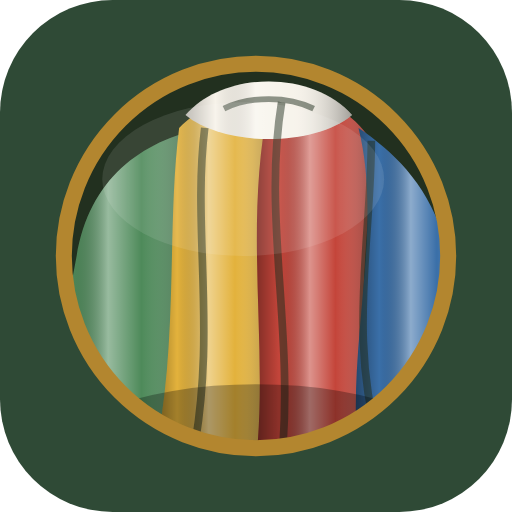
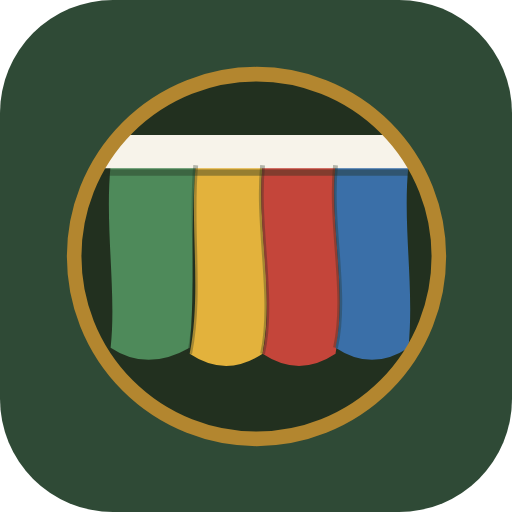
Classic wordmark: EB Garamond in title case, bookplate rule, inlined subset font
- Playfair Display (a Didone) out; EB Garamond (old-style) in, throughout
- Wordmark is title case, not caps: caps read as initials and TOGA is an anagram of GOAT
- Double gold hairline above the name, measuring the name rather than the type block
- The wordmark font is subset to its four glyphs and inlined (1.7KB) so the brand never
  depends on a CDN; rest of the page still loads EB Garamond normally
- Mark redrawn: cloth hanging from a rail instead of four equal wedges filling a circle,
  which read as a beach ball (the old knot read as its valve). Flat, no gradients, one ring
- Icons rasterised from the mark so they cannot drift from it
- Suite 42 -> 48: brand group guarding the case, the inlined font, the rule width and the
  flat, rail-led mark

diff --git a/index.html b/index.html
@@ -17,8 +17,17 @@
 <link rel="icon" type="image/png" sizes="192x192" href="icon-192.png">
 <link rel="preconnect" href="https://fonts.googleapis.com">
 <link rel="preconnect" href="https://fonts.gstatic.com" crossorigin>
-<link href="https://fonts.googleapis.com/css2?family=Playfair+Display:ital,wght@0,500;0,600;0,700;0,800;1,500;1,600&family=Inter:wght@400;500;600;700&display=swap" rel="stylesheet">
+<link href="https://fonts.googleapis.com/css2?family=EB+Garamond:ital,wght@0,400;0,500;0,600;0,700;1,400;1,500&family=Inter:wght@400;500;600;700&display=swap" rel="stylesheet">
 <style>
+  /* The wordmark's own font: EB Garamond 600, subset to the four glyphs the name needs
+     and inlined (~1.7KB base64). The brand must not depend on a CDN — blocked, offline or
+     slow, "Toga" would otherwise fall back to Georgia. Four glyphs, because the name is
+     four letters. The rest of the page still loads EB Garamond normally. */
+  @font-face {
+    font-family: "Toga Mark";
+    font-style: normal; font-weight: 600; font-display: swap;
[1 lines of base64/hex data omitted]
+  }
   :root {
     --paper: #f7f3ea;
     --ink: #22301f;
@@ -68,23 +77,33 @@
     padding: 16px 20px 12px;
     display: flex; align-items: center; justify-content: space-between; gap: 14px;
   }
-  /* Logo: roundel + wordmark. The wordmark is the biggest type on the page after the hero. */
-  .logo { display: flex; align-items: center; gap: 14px; min-width: 0; }
-  .logo .mark { width: 52px; height: 52px; flex-shrink: 0; filter: drop-shadow(0 3px 8px rgba(34,48,31,0.22)); }
+  /* Logo: roundel + wordmark, set in EB Garamond — an old-style face where the strokes feel
+     cut rather than drawn, unlike the Didone we had. Title case, not small caps: caps of any
+     kind read as initials, and TOGA is an anagram of GOAT, so it looks like a puzzle. A
+     capital T and a lowercase rest reads unmistakably as the word. The double hairline above
+     is the bookplate device. */
+  .logo { display: flex; align-items: center; gap: 15px; min-width: 0; }
+  .logo .mark { width: 50px; height: 50px; flex-shrink: 0; }
   .wordmark {
-    font-family: "Playfair Display", Georgia, serif;
-    font-size: 40px; font-weight: 800; letter-spacing: 1.5px; line-height: 1;
-    color: var(--green); text-transform: uppercase;
-    /* gold hairline under the name — the "ornament" made structural */
-    background: linear-gradient(var(--gold), var(--gold)) no-repeat 0 100% / 100% 2px;
-    padding-bottom: 3px; display: inline-block;
+    font-family: "Toga Mark", "EB Garamond", Georgia, serif;
+    font-size: 41px; font-weight: 600; letter-spacing: 0.2px; line-height: 1;
+    color: var(--green); display: inline-block; margin: 0;
   }
+  /* inline-block so the rule measures the NAME, not the type block — otherwise it stretches
+     to the tagline's width and reads as a header divider instead of a caption. */
+  .wordmark::before {
+    content: ""; display: block; height: 4px; margin-bottom: 6px;
+    border-top: 2px solid var(--gold); border-bottom: 1px solid var(--gold);
+  }
+  .brand-region:empty { display: none; }
   .brand-region { font-family: "Inter", sans-serif; font-size: 11px; font-weight: 600; letter-spacing: 0.6px; text-transform: none; color: var(--muted); vertical-align: 6px; margin-left: 6px; }
   .tagline-hdr { font-size: 11.5px; color: var(--muted); margin-top: 6px; letter-spacing: 0.2px; }
   .tagline-hdr .sep { color: var(--gold); margin: 0 4px; }
   @media (max-width: 520px) {
-    .wordmark { font-size: 32px; }
-    .logo .mark { width: 44px; height: 44px; }
+    .wordmark { font-size: 34px; letter-spacing: 0.2px; }
+    .logo .mark { width: 42px; height: 42px; }
+    .logo { gap: 12px; }
+    .wordmark::before { height: 3px; margin-bottom: 6px; border-top-width: 1.5px; }
     .tagline-hdr .more { display: none; } /* drop the long half on narrow screens */
     .tagline-hdr { font-size: 11px; }
   }
@@ -111,7 +130,7 @@
     box-shadow: var(--shadow); padding: 18px 20px 16px; width: 100%; max-width: 440px;
   }
   .sheet-head { display: flex; align-items: center; justify-content: space-between; margin-bottom: 8px; }
-  .sheet-head h3 { font-family: "Playfair Display", Georgia, serif; font-size: 20px; color: var(--green); }
+  .sheet-head h3 { font-family: "EB Garamond", Georgia, serif; font-size: 20px; color: var(--green); }
   .sheet-p { font-size: 13px; color: var(--ink); line-height: 1.5; margin-bottom: 12px; }
   .sheet-fine { font-size: 10.5px; color: var(--muted); margin-top: 12px; }
   .loc-current { font-size: 12.5px; color: var(--muted); font-style: italic; margin-bottom: 10px; }
@@ -128,8 +147,8 @@
   .loc-current .muted { color: var(--muted); font-weight: 400; }
   .welcome-card { text-align: center; padding-top: 22px; }
   .welcome-card .mark-lg { width: 72px; height: 72px; margin-bottom: 10px; filter: drop-shadow(0 4px 12px rgba(34,48,31,0.25)); }
-  .welcome-card .wordmark { font-size: 34px; margin: 0 auto; }
-  .welcome-lead { font-family: "Playfair Display", Georgia, serif; font-style: italic; font-size: 15px; color: var(--ink); margin: 6px 0 12px; }
+  .welcome-card .wordmark { font-size: 34px; display: inline-block; margin: 0; }
+  .welcome-lead { font-family: "EB Garamond", Georgia, serif; font-style: italic; font-size: 15px; color: var(--ink); margin: 6px 0 12px; }
   .welcome-joined:empty { display: none; }
   .welcome-joined { color: var(--green); font-weight: 600; }
   .welcome-ok { margin-top: 6px; background: var(--green); color: var(--card); border-color: var(--green); padding: 10px 22px; }
@@ -192,7 +211,7 @@
   }
   .swatch > *:not(.glass) { position: relative; z-index: 1; }
   .swatch .team {
-    font-family: "Playfair Display", Georgia, serif; font-style: italic;
+    font-family: "EB Garamond", Georgia, serif; font-style: italic;
     font-size: 15px; font-weight: 500; opacity: 0.86; margin: -2px 0 6px; letter-spacing: 0.2px;
   }
   .swatch .team:empty { display: none; }
@@ -210,10 +229,10 @@
   }
   .theme-banner.soon { opacity: 0.85; font-size: 12px; }
   .theme-banner .t-emoji { font-size: 16px; }
-  .theme-banner b { font-family: "Playfair Display", Georgia, serif; font-weight: 600; color: var(--day-ink); }
+  .theme-banner b { font-family: "EB Garamond", Georgia, serif; font-weight: 600; color: var(--day-ink); }
   .theme-banner .t-note { color: var(--muted); font-style: italic; }
   .swatch .eyebrow { font-size: 10px; font-weight: 700; letter-spacing: 2px; text-transform: uppercase; opacity: 0.7; }
-  .swatch .name { font-family: "Playfair Display", Georgia, serif; font-size: 44px; font-weight: 700; letter-spacing: -0.5px; line-height: 1; margin: 7px 0 4px; }
+  .swatch .name { font-family: "EB Garamond", Georgia, serif; font-size: 47px; font-weight: 600; letter-spacing: 0; line-height: 1; margin: 7px 0 4px; }
   .swatch .hex { font-size: 12px; font-weight: 600; opacity: 0.75; font-variant-numeric: tabular-nums; letter-spacing: 1px; }
   .swatch .tagline { font-size: 12px; margin-top: 9px; opacity: 0.82; font-weight: 500; }
   /* Flannel note: a small pill inside the hero, in the hero's own text color */
@@ -256,7 +275,7 @@
   .fit-piece.hero-piece { border-right: 1px solid rgba(var(--day-rgb), 0.20); padding-right: 8px; }
   .fit-piece.hero-piece .garment { width: 52px; height: 52px; }
   .fit-label { font-size: 9px; font-weight: 700; letter-spacing: 1.2px; text-transform: uppercase; color: var(--day-ink); opacity: 0.8; }
-  .fit-name { font-family: "Playfair Display", Georgia, serif; font-size: 15px; font-weight: 600; line-height: 1.1; margin-top: 2px; }
+  .fit-name { font-family: "EB Garamond", Georgia, serif; font-size: 15px; font-weight: 600; line-height: 1.1; margin-top: 2px; }
   .fit-piece.hero-piece .fit-name { font-size: 20px; }
   .fit-alias {
     font-size: 10px; color: var(--muted); line-height: 1.25; margin-top: 3px; font-style: italic;
@@ -292,13 +311,13 @@
 
   /* ------------------------------------------------ Verse */
   .verse {
-    font-family: "Playfair Display", Georgia, serif; font-style: italic;
+    font-family: "EB Garamond", Georgia, serif; font-style: italic;
     font-size: 19px; line-height: 1.45; color: var(--ink);
     white-space: pre-line; text-align: center; padding: 14px 10px 6px;
     text-wrap: balance;
   }
   .verse-tail {
-    font-family: "Playfair Display", Georgia, serif; font-style: italic;
+    font-family: "EB Garamond", Georgia, serif; font-style: italic;
     font-size: 13.5px; color: var(--day-ink); text-align: center; opacity: 0.9;
   }
   .verse-tail:empty { display: none; }
@@ -346,7 +365,7 @@
   .mcell.themed { border-style: double; border-width: 3px; padding: 1px; }
 
   footer { text-align: center; color: var(--muted); font-size: 11px; margin-top: 18px; padding: 0 20px; }
-  footer .brand { font-family: "Playfair Display", Georgia, serif; font-size: 15px; font-weight: 800; letter-spacing: 2px; text-transform: uppercase; color: var(--green); margin: 6px 0 2px; }
+  footer .brand { font-family: "Toga Mark", "EB Garamond", Georgia, serif; font-size: 19px; font-weight: 600; letter-spacing: 0.3px; color: var(--green); margin: 6px 0 2px; }
   footer .fine { font-size: 10.5px; letter-spacing: 1px; }
   footer .mark-sm { width: 30px; height: 30px; opacity: 0.9; }
 </style>
@@ -358,38 +377,26 @@
      and rasterized for the app icon. -->
 <svg width="0" height="0" style="position:absolute" aria-hidden="true">
   <defs>
-    <!-- fold shading: a rounded cylinder — dark edge, bright ridge, deep crease -->
-    <linearGradient id="fold" x1="0" y1="0" x2="1" y2="0">
-      <stop offset="0"    stop-color="#000" stop-opacity="0.35"/>
-      <stop offset="0.18" stop-color="#000" stop-opacity="0.00"/>
-      <stop offset="0.42" stop-color="#fff" stop-opacity="0.42"/>
-      <stop offset="0.62" stop-color="#fff" stop-opacity="0.00"/>
-      <stop offset="1"    stop-color="#000" stop-opacity="0.50"/>
-    </linearGradient>
     <clipPath id="roundel"><circle cx="32" cy="32" r="29"/></clipPath>
     <symbol id="toga-mark" viewBox="0 0 64 64">
       <circle cx="32" cy="32" r="30" fill="#22301f"/>
       <g clip-path="url(#roundel)">
-        <!-- four hanging folds: gathered at the shoulder, each swaying softly as it falls -->
-        <path d="M4 32 C6 20 14 14 24 12 C22 28 26 44 22 64 L-2 64 Z" fill="#4E8A5A"/>
-        <path d="M4 32 C6 20 14 14 24 12 C22 28 26 44 22 64 L-2 64 Z" fill="url(#fold)"/>
-        <path d="M20 12 C24 8 30 6 36 8 C33 26 38 44 36 64 L16 64 C20 46 18 28 20 12 Z" fill="#E3B23C"/>
-        <path d="M20 12 C24 8 30 6 36 8 C33 26 38 44 36 64 L16 64 C20 46 18 28 20 12 Z" fill="url(#fold)"/>
-        <path d="M34 8 C40 6 46 8 50 14 C50 30 46 46 52 64 L32 64 C34 46 30 28 34 8 Z" fill="#C4453A"/>
-        <path d="M34 8 C40 6 46 8 50 14 C50 30 46 46 52 64 L32 64 C34 46 30 28 34 8 Z" fill="url(#fold)"/>
-        <path d="M48 12 C54 16 60 22 62 32 L68 64 L48 64 C46 46 52 28 48 12 Z" fill="#3A6FA8"/>
-        <path d="M48 12 C54 16 60 22 62 32 L68 64 L48 64 C46 46 52 28 48 12 Z" fill="url(#fold)"/>
-        <!-- the gather: a knot of cloth at the shoulder where the folds meet -->
-        <path d="M21 10 C27 3 41 3 47 10 C41 15 27 15 21 10 Z" fill="#f7f3ea"/>
-        <path d="M21 10 C27 3 41 3 47 10 C41 15 27 15 21 10 Z" fill="url(#fold)" opacity="0.7"/>
-        <path d="M27 9 C31 7 37 7 41 9" stroke="#22301f" stroke-width="0.9" opacity="0.5" fill="none"/>
-        <!-- crease lines between folds, following the sway -->
-        <path d="M24 12 C22 28 26 44 22 64 M36 8 C33 26 38 44 36 64 M50 14 C50 30 46 46 52 64" stroke="#22301f" stroke-width="1.2" opacity="0.55" fill="none"/>
-        <!-- soft top light, and the cloth's own shadow pooling at the bottom -->
-        <ellipse cx="30" cy="20" rx="22" ry="12" fill="#fff" opacity="0.10"/>
-        <ellipse cx="32" cy="66" rx="34" ry="14" fill="#000" opacity="0.28"/>
+        <!-- Cloth hanging from a gathered rail: uneven fold widths, a wave-cut hem. Equal
+             saturated wedges filling a circle read as a beach ball, and the knot at the top
+             read as its valve — the rail is what fixes that. -->
+        <path d="M8 17 C7 27 9 38 8 47 Q14 51 21 47 C22 37 21 27 22 17 Z" fill="#4E8A5A"/>
+        <path d="M22 17 C21 27 23 38 21 48 Q27 52 33 48 C35 37 32 27 33 17 Z" fill="#E3B23C"/>
+        <path d="M33 17 C32 27 35 39 33 48 Q39 52 45 48 C47 37 44 27 45 17 Z" fill="#C4453A"/>
+        <path d="M45 17 C44 27 47 38 45 47 Q51 51 57 47 C58 37 56 27 57 17 Z" fill="#3A6FA8"/>
+        <!-- the rail the cloth is folded over -->
+        <path d="M4 12 L60 12 L60 17.5 L4 17.5 Z" fill="#f7f3ea"/>
+        <path d="M4 18.2 L60 18.2" stroke="#22301f" stroke-width="1" opacity="0.4" fill="none"/>
+        <!-- creases between folds — flat and woodcut-like, no spherical shading -->
+        <path d="M22 17 C21 27 23 38 21 48 M33 17 C32 27 35 39 33 48 M45 17 C44 27 47 38 45 47" stroke="#22301f" stroke-width="0.8" opacity="0.32" fill="none"/>
       </g>
-      <circle cx="32" cy="32" r="30" fill="none" stroke="#b3862f" stroke-width="2.5"/>
+      <!-- one gold ring. A finer second ring inside looked like a stray reflection: cream read
+           over the dark disc but vanished over the cloth, so only arcs showed. -->
+      <circle cx="32" cy="32" r="30" fill="none" stroke="#b3862f" stroke-width="2.4"/>
     </symbol>
   </defs>
 </svg>

diff --git a/test.html b/test.html
@@ -225,6 +225,46 @@ function run() {
     for (const w of ["Cedars", "Lakeside", "Jasmin", "Julian", "Bigos"]) ok(!html.includes(w), "found \"" + w + "\" in the page");
   });
 
+  // ---------------------------------------------------------------- brand
+  group("brand · classic wordmark, independent of any CDN");
+  test("the wordmark is set in the inlined face, and it loaded", () => {
+    const wm = doc.querySelector(".wordmark");
+    ok(wm, "no wordmark in the page");
+    const fam = app.getComputedStyle(wm).fontFamily;
+    ok(/Toga Mark/.test(fam), "wordmark is not using the inlined face: " + fam);
+    ok(app.document.fonts.check('600 41px "Toga Mark"'), "the inlined face did not load");
+  });
+  test("the wordmark is title case — not caps, not small caps", () => {
+    // caps of any kind read as initials, and TOGA is an anagram of GOAT
+    const cs = app.getComputedStyle(doc.querySelector(".wordmark"));
+    eq(cs.textTransform, "none", "a text-transform is making the name read as initials");
+    eq(cs.fontVariantCaps, "normal", "small caps still reads as initials");
+    eq(doc.querySelector(".wordmark").textContent.trim(), "Toga", 'the name should be exactly "Toga"');
+  });
+  test("the wordmark font is embedded, not fetched", () => {
+    const css = [...doc.querySelectorAll("style")].map(s => s.textContent).join("");
+    ok(/@font-face[^}]*Toga Mark/.test(css), "no @font-face declared for the wordmark");
+    ok(/url\(data:font\/woff2;base64,/.test(css), "the wordmark font is not inlined as base64");
+  });
+  test("the bookplate rule measures the name, not the whole type block", () => {
+    const wm = doc.querySelector(".wordmark");
+    const rule = app.getComputedStyle(wm, "::before");
+    eq(rule.display, "block", "the rule should be a block");
+    near(parseFloat(rule.width), wm.getBoundingClientRect().width, 1.5, "rule width vs wordmark width");
+  });
+  test("the mark appears in the header, footer and welcome card", () => {
+    for (const sel of ["header .mark", "footer .mark-sm", ".welcome-card .mark-lg"])
+      ok(doc.querySelector(sel), "missing the mark at " + sel);
+  });
+  test("the mark is drawn flat — no leftover 3D shading", () => {
+    const sym = doc.getElementById("toga-mark");
+    ok(sym, "the symbol is gone");
+    const svg = sym.innerHTML;
+    ok(!/<ellipse/.test(svg), "the shading ellipses are back — it will read as a ball again");
+    ok(!/url\(#fold\)/.test(svg), "the cylinder gradient is back");
+    ok(/<path[^>]*fill="#f7f3ea"/.test(svg), "the rail that makes it read as cloth is gone");
+  });
+
   // ---------------------------------------------------------------- readability
   group("readability · the daily paper stays legible");
   const lum = hex => { const [r, g, b] = A.hexRGB(hex).map(v => { v /= 255; return v <= 0.03928 ? v / 12.92 : Math.pow((v + 0.055) / 1.055, 2.4); }); return 0.2126 * r + 0.7152 * g + 0.0722 * b; };

diff --git a/sw.js b/sw.js
@@ -1,7 +1,7 @@
 // Toga service worker — the page is pure date-math, so it works fully offline.
 // Strategy: precache the shell; network-first for same-origin (so updates land),
 // falling back to cache when offline. Weather API calls are never cached.
-const VERSION = "toga-v14";
+const VERSION = "toga-v15";
 const SHELL = ["./", "./index.html", "./regions.js", "./manifest.webmanifest", "./icon-192.png", "./icon-512.png"];
 
 self.addEventListener("install", e => {
